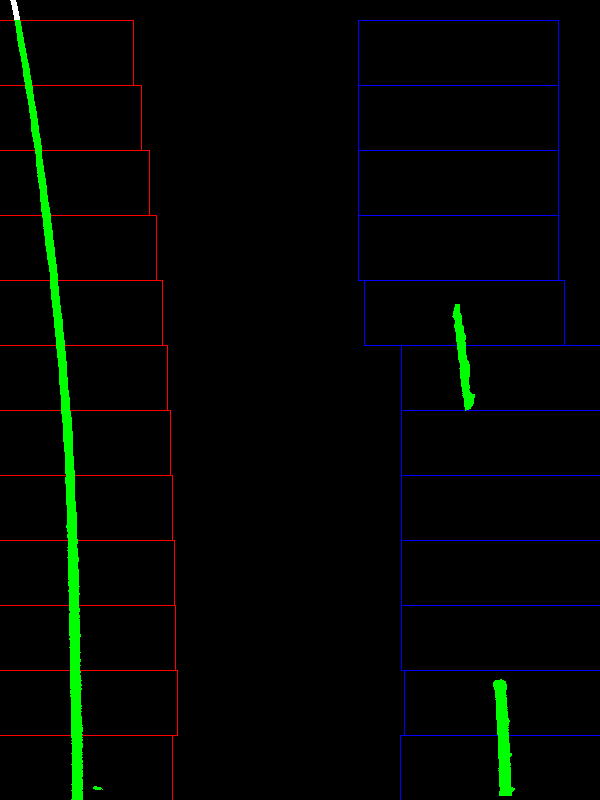
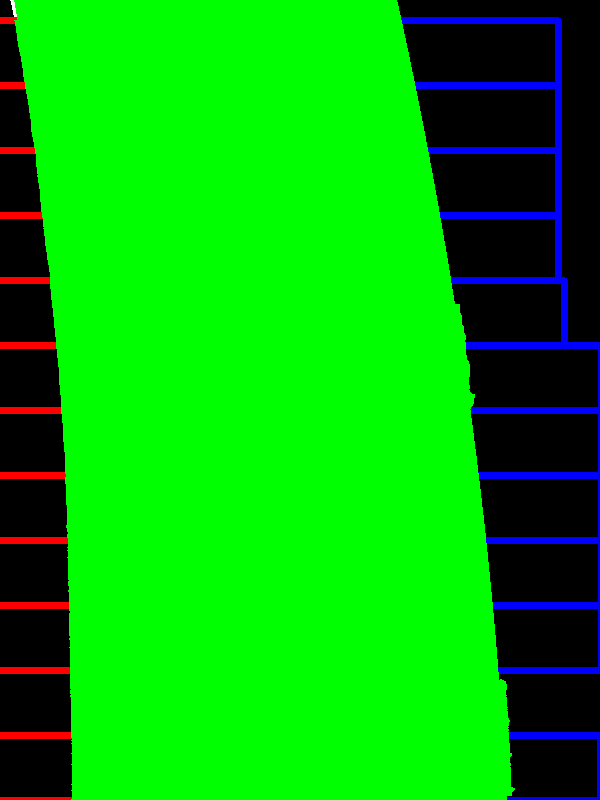
history added

diff --git a/lane_finder.py b/lane_finder.py
@@ -11,6 +11,9 @@ minpix = 20
 margin = 100
 
 
+HISTORY_RIGHT = []
+HISTORY_LEFT = []
+
 #havly inspired by lesson example
 def find_line(img):
     histogram = np.sum(img[int(img.shape[0] / 2):,:], axis=0)
@@ -57,8 +60,8 @@ def find_line(img):
         win_xright_low = rightx_current - margin
         win_xright_high = rightx_current + margin
 
-        cv2.rectangle(out_img,(win_xleft_low,win_y_low),(win_xleft_high,win_y_high),(0,0,255), 1)
-        cv2.rectangle(out_img,(win_xright_low,win_y_low),(win_xright_high,win_y_high),(255,0,0), 1)
+        cv2.rectangle(out_img,(win_xleft_low,win_y_low),(win_xleft_high,win_y_high),(0,0,255), 5)
+        cv2.rectangle(out_img,(win_xright_low,win_y_low),(win_xright_high,win_y_high),(255,0,0), 5)
 
         good_left_inds = ((nonzeroy >= win_y_low) & (nonzeroy < win_y_high) & (nonzerox >= win_xleft_low) & (
         nonzerox < win_xleft_high)).nonzero()[0]
@@ -97,13 +100,13 @@ def find_line(img):
         out_img[nonzeroy[left_lane_inds], nonzerox[left_lane_inds]] = [0, 255, 0]
         out_img[nonzeroy[right_lane_inds], nonzerox[right_lane_inds]] = [0, 255, 0]
 
-        plt.imshow(out_img)
-        plt.plot(left_fitx, ploty, color='yellow')
-        plt.plot(right_fitx, ploty, color='yellow')
-        plt.xlim(0, image_heigth)
-        plt.ylim(image_width, 0)
-        plt.show()
-        plt.savefig('report/lines.jpg')
+        # plt.imshow(out_img)
+        # plt.plot(left_fitx, ploty, color='yellow')
+        # plt.plot(right_fitx, ploty, color='yellow')
+        # plt.xlim(0, image_heigth)
+        # plt.ylim(image_width, 0)
+        # plt.show()
+        # plt.savefig('report/lines.jpg')
 
 
         y_eval = np.max(ploty)
@@ -126,17 +129,47 @@ def find_line(img):
         # Now our radius of curvature is in meters
         # print(left_curverad, 'm', right_curverad, 'm')
         # Recast the x and y points into usable format for cv2.fillPoly()
+
+
         pts_left = np.array([np.transpose(np.vstack([left_fitx, ploty]))])
         pts_right = np.array([np.flipud(np.transpose(np.vstack([right_fitx, ploty])))])
+
+        global HISTORY_LEFT, HISTORY_RIGHT
+        print("pts",pts_left.sum(),pts_left.sum())
+        print("crv:", left_curverad,right_curverad)
+
+        R = 0
+        B = 0
+        G = 255
+
+        if (pts_left.sum() < 315000 ):
+            pts_left = HISTORY_LEFT
+            R+= 200
+            G -=50
+        else:
+            HISTORY_LEFT= pts_left
+
+        if (pts_right.sum() < 315000 ):
+            pts_right = HISTORY_RIGHT
+            B += 200
+            G -= 50
+        else:
+            HISTORY_RIGHT = pts_left
+
         pts = np.hstack((pts_left, pts_right))
 
-        #cv2.fillPoly(out_img, np.int_([pts]), (0, 255, 0))
+        cv2.fillPoly(out_img, np.int_([pts]), (R, 255, B))
 
 
         return out_img, left_curverad, right_curverad, lines_offset
 
     except Exception as e:
-        print("COULD NOT FIT CIRCLE, Using last one")
+        print("COULD NOT FIT CIRCLE, Using last one",e)
+
+        pts = np.hstack((HISTORY_LEFT, HISTORY_RIGHT))
+        cv2.fillPoly(out_img, np.int_([pts]), (0, 255, 255))
+
+
         return out_img, -1, -1, 0
 
 

diff --git a/image_preprocessors.py b/image_preprocessors.py
@@ -12,6 +12,8 @@ def s_binnary(img):
     return binary
 
 
+
+
 # https://hidefcolor.com/blog/color-management/what-is-lab-color-space/
 def b_binnary(img):
     B_channel = cv2.cvtColor(img, cv2.COLOR_BGR2LAB)[:,:,0]
